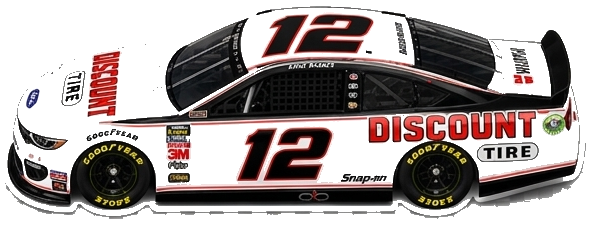
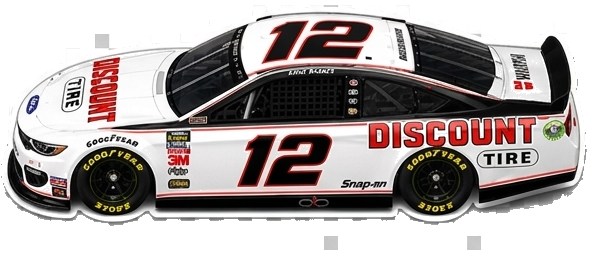
Fix 3 bugs: exchange disappearance, dice animation, white car transparency
1. swapPieces(): atomic grid swap replaces two movePiece calls that were
   clearing each other — inFront car was vanishing after die=6 exchange
2. diceJustRolled flag: .rolling class applied only when doRoll() fires,
   cleared in renderSideWall(); .strip-die no longer has permanent animation
3. car-player.png: re-extracted with 3-pass background removal:
   gray flood-fill, white flood-fill, small-region removal (<400px)
   preserves large white car body while removing checker-pattern tiles

https://claude.ai/code/session_016ULjS5sK1wzyLYwtGwC2Eo

diff --git a/index.html b/index.html
@@ -197,7 +197,7 @@ body{background:#d4d8df;color:#1e293b;font-family:'Segoe UI',Arial,sans-serif;mi
   75% {transform:scale(1.08) rotate(5deg)}
   100%{transform:scale(1) rotate(0);opacity:1}
 }
-.strip-die{animation:die-roll .55s ease-out both}
+.strip-die.rolling{animation:die-roll .55s ease-out both}
 @keyframes pulse-pip{0%,100%{opacity:1}50%{opacity:.3}}
 .fly-badge{position:fixed;pointer-events:none;z-index:600;font-weight:700;font-size:.85rem;padding:2px 8px;border-radius:5px;white-space:nowrap;transition:left .55s cubic-bezier(.25,.46,.45,.94),top .55s cubic-bezier(.25,.46,.45,.94),opacity .55s ease}
 
@@ -403,7 +403,7 @@ function newState(diff){
     gauges:{tires:6,fuel:6,engine:6},
     speed:3,_baseSpeed:3,
     lapStep:0,phase:'start',
-    dice:[],diceUsed:Array(5).fill(false),
+    dice:[],diceUsed:Array(5).fill(false),diceJustRolled:false,
     rivalQueue:[],rivalIdx:0,
     pendingChoice:null,stepLogs:[],movedCar:null,
     log:[{msg:'Course démarrée ! Bonne chance !',cls:'good'}],
@@ -419,6 +419,11 @@ const inBounds =(r,c)=>r>=0&&r<ROWS&&c>=0&&c<COLS;
 function movePiece(id,r,c){
   const{row:or,col:oc}=S.cars[id];
   S.grid[or][oc]=null;S.cars[id]={row:r,col:c};S.grid[r][c]=id;
+}
+function swapPieces(id1,id2){
+  const p1={...S.cars[id1]},p2={...S.cars[id2]};
+  S.grid[p1.row][p1.col]=id2;S.grid[p2.row][p2.col]=id1;
+  S.cars[id1]=p2;S.cars[id2]=p1;
 }
 const allCars=()=>['player',...RIVALS];
 
@@ -546,7 +551,7 @@ function processOneRival(){
       else{
         const inFront=getCar(row,col-1);
         if(!inFront){movePiece(name,row,col-1);stepLog('Dé 6 → avance','good');}
-        else{movePiece(inFront,row,col);movePiece(name,row,col-1);stepLog(`Dé 6 → échange avec ${CAR_LBL[inFront]}`,'good');}
+        else{swapPieces(name,inFront);stepLog(`Dé 6 → échange avec ${CAR_LBL[inFront]}`,'good');}
         resolveArrow(name);
       }
     }else{
@@ -690,6 +695,7 @@ function doLateral(dRow){
 function doRoll(){
   S.dice=RIVALS.map(()=>Math.ceil(Math.random()*6));
   S.diceUsed=S.dice.map(d=>d===S.speed);
+  S.diceJustRolled=true;
   glog(`Dés : ${RIVALS.map((n,i)=>CAR_LBL[n]+'='+S.dice[i]).join(' ')}`);
   render();
   setTimeout(()=>{
@@ -976,9 +982,11 @@ function renderStandings(){
 function renderSideWall(){
   const el=document.getElementById('wall-strip');
   if(!el)return;
+  const rolling=S.diceJustRolled;
+  S.diceJustRolled=false;
   const diceHtml=S.dice.length
     ?RIVALS.map((n,i)=>
-        `<div class="strip-die" style="background:${DIE_BG[n]};opacity:${S.diceUsed[i]?.28:1};animation-delay:${i*0.07}s">${S.dice[i]}</div>`
+        `<div class="strip-die${rolling?' rolling':''}" style="background:${DIE_BG[n]};opacity:${S.diceUsed[i]?.28:1};animation-delay:${i*0.07}s">${S.dice[i]}</div>`
       ).join('')
     :'<span style="font-size:.55rem;opacity:.35;color:#475569">—</span>';
   el.innerHTML=`<div class="strip-lbl">VIT.</div>
